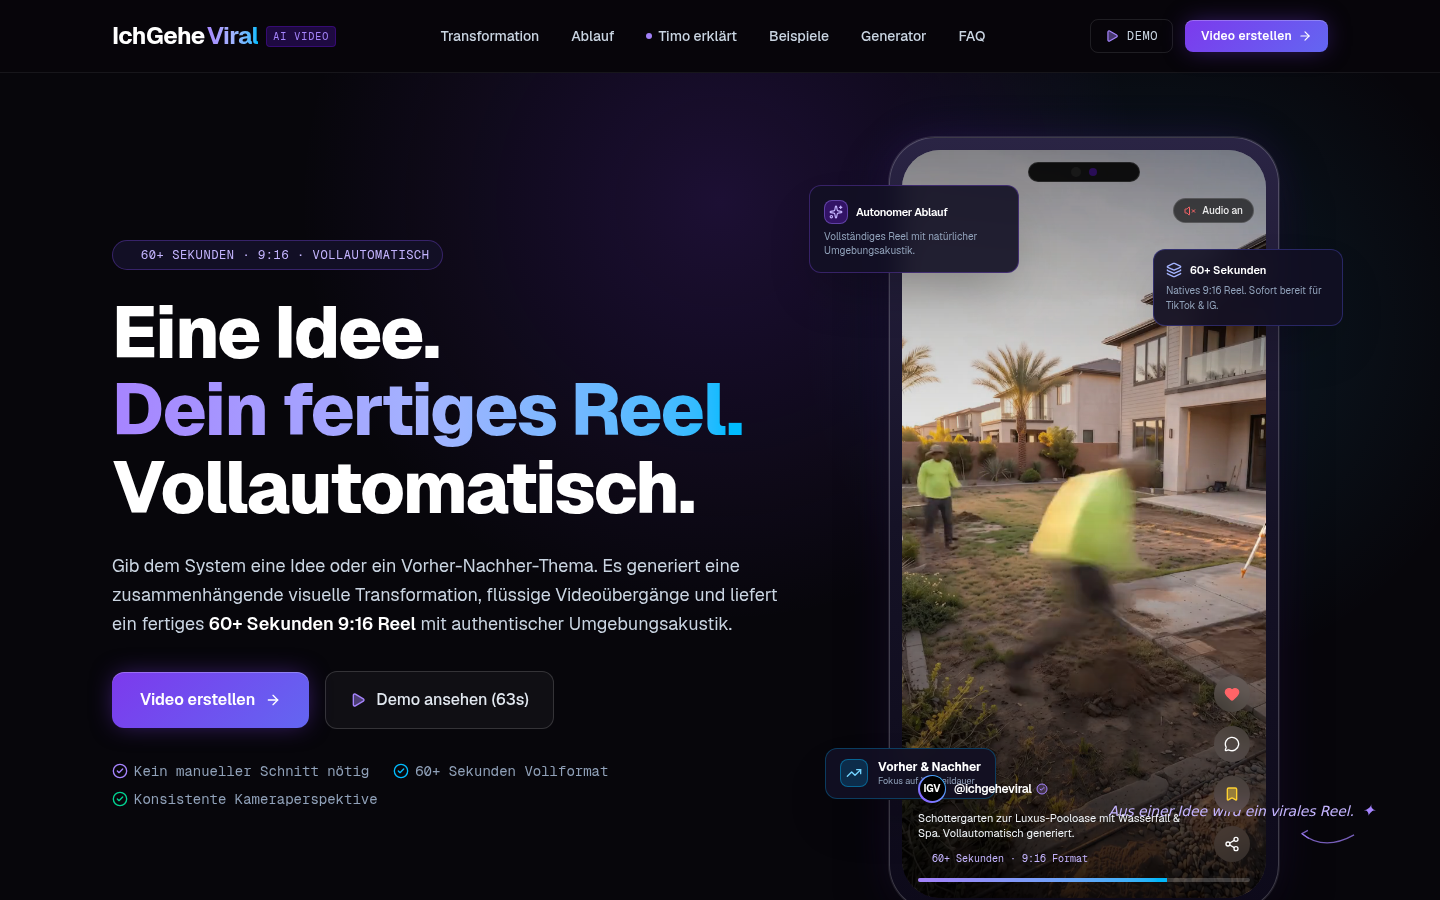
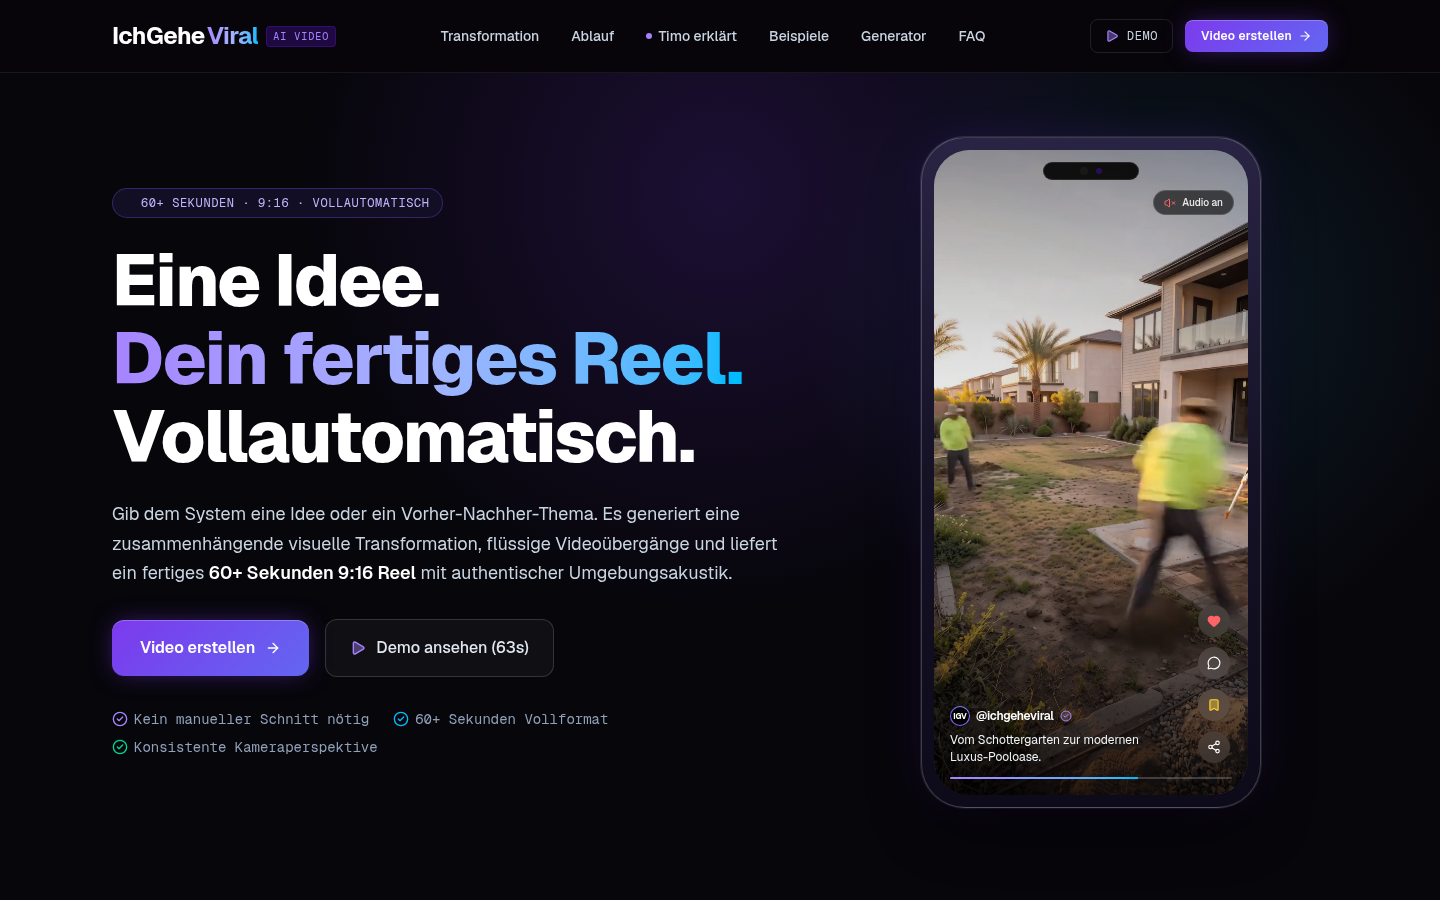
polish(hero): declutter phone mockup, remove overlapping badges, enhance layout clarity

Changed region(s): [[0.0625, 0.1867, 0.5312, 0.9022], [0.5625, 0.1556, 0.9375, 0.9956]]

diff --git a/src/components/PhoneMockup.tsx b/src/components/PhoneMockup.tsx
@@ -1,7 +1,7 @@
 "use client";
 
 import React, { useRef, useState } from "react";
-import { Heart, MessageCircle, Bookmark, Share2, Volume2, VolumeX, Sparkles, TrendingUp, Layers, CheckCircle2 } from "lucide-react";
+import { Heart, MessageCircle, Bookmark, Share2, Volume2, VolumeX, CheckCircle2 } from "lucide-react";
 
 interface PhoneMockupProps {
   onPlayFull?: () => void;
@@ -11,7 +11,8 @@ export function PhoneMockup({ onPlayFull }: PhoneMockupProps) {
   const videoRef = useRef<HTMLVideoElement>(null);
   const [isMuted, setIsMuted] = useState(true);
 
-  const toggleSound = () => {
+  const toggleSound = (e: React.MouseEvent) => {
+    e.stopPropagation();
     if (videoRef.current) {
       videoRef.current.muted = !videoRef.current.muted;
       setIsMuted(videoRef.current.muted);
@@ -19,79 +20,25 @@ export function PhoneMockup({ onPlayFull }: PhoneMockupProps) {
   };
 
   return (
-    <div className="relative mx-auto w-full max-w-[340px] sm:max-w-[360px] lg:max-w-[390px] select-none">
+    <div className="relative mx-auto w-full max-w-[290px] sm:max-w-[320px] lg:max-w-[340px] select-none">
       {/* Background ambient lighting halo behind phone */}
       <div className="absolute -inset-4 sm:-inset-6 rounded-[48px] bg-gradient-to-tr from-violet-600/30 via-indigo-500/20 to-sky-400/25 blur-3xl opacity-75 pointer-events-none -z-10" />
 
-      {/* Floating Micro-Badge Top Left */}
-      <div className="hidden sm:flex absolute -left-12 lg:-left-20 top-12 z-20 flex-col gap-1 rounded-xl bg-[#120F24]/90 p-3.5 border border-violet-500/30 shadow-2xl backdrop-blur-md max-w-[210px] animate-fade-in">
-        <div className="flex items-center gap-2">
-          <div className="w-6 h-6 rounded-lg bg-violet-600/30 border border-violet-400/40 flex items-center justify-center">
-            <Sparkles className="w-3.5 h-3.5 text-violet-300" />
-          </div>
-          <span className="text-[11px] font-semibold text-white tracking-tight">
-            Autonomer Ablauf
-          </span>
-        </div>
-        <p className="text-[10px] text-slate-400 leading-snug pt-0.5">
-          Vollständiges Reel mit natürlicher Umgebungsakustik.
-        </p>
-      </div>
-
-      {/* Floating Micro-Badge Mid Left */}
-      <div className="hidden sm:flex absolute -left-10 lg:-left-16 bottom-28 z-20 items-center gap-2.5 rounded-xl bg-[#120F24]/90 px-3.5 py-2.5 border border-sky-500/30 shadow-2xl backdrop-blur-md">
-        <div className="w-7 h-7 rounded-lg bg-sky-500/20 border border-sky-400/40 flex items-center justify-center">
-          <TrendingUp className="w-4 h-4 text-sky-300" />
-        </div>
-        <div>
-          <div className="text-xs font-bold text-white flex items-center gap-1">
-            <span>Vorher & Nachher</span>
-          </div>
-          <p className="text-[9px] text-slate-400">Fokus auf Verweildauer</p>
-        </div>
-      </div>
-
-      {/* Floating Micro-Badge Right */}
-      <div className="hidden sm:flex absolute -right-8 lg:-right-16 top-28 z-20 flex-col gap-1 rounded-xl bg-[#120F24]/90 p-3 border border-indigo-500/30 shadow-2xl backdrop-blur-md max-w-[190px]">
-        <div className="flex items-center gap-2">
-          <Layers className="w-4 h-4 text-indigo-300" />
-          <span className="text-[11px] font-semibold text-white">60+ Sekunden</span>
-        </div>
-        <p className="text-[10px] text-slate-400">
-          Natives 9:16 Reel. Sofort bereit für TikTok & IG.
-        </p>
-      </div>
-
-      {/* Editorial Handwriting Annotation */}
-      <div className="hidden lg:block absolute -right-24 bottom-14 z-20 text-right pointer-events-none">
-        <div className="flex items-center gap-2 justify-end text-violet-300 handwriting text-sm tracking-wide">
-          <span>Aus einer Idee wird ein virales Reel.</span>
-          <span className="text-base text-violet-400">✦</span>
-        </div>
-        <svg
-          className="w-16 h-8 text-violet-400/70 ml-auto mr-4 transform rotate-12"
-          viewBox="0 0 100 50"
-          fill="none"
-          stroke="currentColor"
-          strokeWidth="2"
-        >
-          <path d="M 90,10 Q 50,45 10,25" />
-          <path d="M 18,18 L 10,25 L 22,30" />
-        </svg>
-      </div>
-
       {/* Phone Chassis Container */}
-      <div className="relative rounded-[46px] p-2.5 sm:p-3 bg-gradient-to-b from-[#2a2444] via-[#151226] to-[#0d0a1a] phone-chassis border border-white/20">
+      <div className="relative rounded-[44px] p-2.5 sm:p-3 bg-gradient-to-b from-[#2a2444] via-[#151226] to-[#0d0a1a] phone-chassis border border-white/20 shadow-2xl">
         {/* Dynamic Island / Speaker Pill */}
-        <div className="absolute top-5 sm:top-6 left-1/2 -translate-x-1/2 z-30 flex items-center justify-center gap-2 w-28 h-5 rounded-full bg-black/90 border border-white/10 shadow-inner">
-          <div className="w-2.5 h-2.5 rounded-full bg-[#181818]" />
-          <div className="w-2 h-2 rounded-full bg-violet-950/80" />
+        <div className="absolute top-5 sm:top-6 left-1/2 -translate-x-1/2 z-30 flex items-center justify-center gap-2 w-24 h-4.5 rounded-full bg-black/90 border border-white/10 shadow-inner">
+          <div className="w-2 h-2 rounded-full bg-[#181818]" />
+          <div className="w-1.5 h-1.5 rounded-full bg-violet-950/80" />
         </div>
 
         {/* Phone Screen Area (9:16 Aspect Ratio) */}
         <div
           onClick={onPlayFull}
-          className="relative aspect-[9/19] sm:aspect-[9/18.5] w-full overflow-hidden rounded-[38px] bg-black cursor-pointer"
+          className="relative aspect-[9/18.5] w-full overflow-hidden rounded-[36px] bg-black cursor-pointer group"
+          role="button"
+          tabIndex={0}
+          aria-label="Reel im Vollbild abspielen"
         >
           {/* Main Video: 2 MB optimized preview loop for instant mobile loading */}
           <video
@@ -102,16 +49,17 @@ export function PhoneMockup({ onPlayFull }: PhoneMockupProps) {
             loop
             muted
             playsInline
-            className="h-full w-full object-cover"
+            className="h-full w-full object-cover group-hover:scale-[1.02] transition-transform duration-500"
           />
 
           {/* Gradient Overlay for Text Readability */}
-          <div className="absolute inset-0 bg-gradient-to-b from-black/40 via-transparent 40% to-black/85 pointer-events-none" />
+          <div className="absolute inset-0 bg-gradient-to-b from-black/35 via-transparent 45% to-black/85 pointer-events-none" />
 
           {/* Audio Unmute Pill Top Right */}
           <button
             onClick={toggleSound}
-            className="absolute top-12 right-3 z-30 flex items-center gap-1.5 rounded-full bg-black/60 px-2.5 py-1 text-[10px] font-medium text-white/90 backdrop-blur-md border border-white/15 hover:bg-black/80 transition-colors"
+            className="absolute top-10 right-3.5 z-30 flex items-center gap-1.5 rounded-full bg-black/60 px-2.5 py-1 text-[10px] font-medium text-white/90 backdrop-blur-md border border-white/15 hover:bg-black/80 transition-colors pointer-events-auto"
+            aria-label={isMuted ? "Audio einschalten" : "Audio stummschalten"}
           >
             {isMuted ? (
               <>
@@ -127,58 +75,50 @@ export function PhoneMockup({ onPlayFull }: PhoneMockupProps) {
           </button>
 
           {/* Reel Platform UI Overlay */}
-          <div className="absolute inset-x-0 bottom-0 p-3.5 sm:p-4 z-20 flex flex-col justify-end text-white">
+          <div className="absolute inset-x-0 bottom-0 p-3.5 sm:p-4 z-20 flex flex-col justify-end text-white pointer-events-none">
             <div className="flex items-end justify-between gap-3">
               {/* Creator Info & Caption */}
-              <div className="flex-1 space-y-2">
-                <div className="flex items-center gap-2">
-                  <div className="w-7 h-7 rounded-full bg-gradient-to-tr from-violet-500 to-sky-400 p-[1.5px]">
-                    <div className="w-full h-full rounded-full bg-black flex items-center justify-center text-[10px] font-bold">
+              <div className="flex-1 min-w-0 pr-2 space-y-1.5 pointer-events-auto">
+                <div className="flex items-center gap-1.5">
+                  <div className="w-5 h-5 rounded-full bg-gradient-to-tr from-violet-500 to-indigo-400 p-[1px] shrink-0">
+                    <div className="w-full h-full rounded-full bg-black flex items-center justify-center text-[8px] font-bold text-white">
                       IGV
                     </div>
                   </div>
-                  <div className="flex items-center gap-1">
-                    <span className="text-xs font-semibold tracking-tight">
-                      @ichgeheviral
-                    </span>
-                    <CheckCircle2 className="w-3 h-3 text-violet-400 fill-violet-400/20" />
-                  </div>
+                  <span className="text-xs font-semibold tracking-tight text-white truncate">
+                    @ichgeheviral
+                  </span>
+                  <CheckCircle2 className="w-3 h-3 text-violet-400 fill-violet-400/20 shrink-0" />
                 </div>
 
-                <p className="text-[11px] text-slate-100 font-normal leading-snug line-clamp-2 drop-shadow-sm">
-                  Schottergarten zur Luxus-Pooloase mit Wasserfall & Spa. 
-                  Vollautomatisch generiert.
+                <p className="text-[11px] sm:text-xs text-slate-100 font-normal leading-snug drop-shadow-sm line-clamp-2">
+                  Vom Schottergarten zur modernen Luxus-Pooloase.
                 </p>
-
-                <div className="flex items-center gap-2 pt-0.5 text-[10px] text-violet-300 font-mono">
-                  <span className="inline-block w-1.5 h-1.5 rounded-full bg-violet-400 animate-ping" />
-                  <span>60+ Sekunden · 9:16 Format</span>
-                </div>
               </div>
 
               {/* TikTok / Reels Right Action Rail (Clean without fake metric numbers) */}
-              <div className="flex flex-col items-center gap-3.5 pb-1 text-white">
-                <div className="w-9 h-9 rounded-full bg-white/10 backdrop-blur-md flex items-center justify-center hover:scale-110 transition-transform">
-                  <Heart className="w-4 h-4 text-red-400 fill-red-400" />
+              <div className="w-8 sm:w-9 flex flex-col items-center gap-2.5 pb-0.5 text-white shrink-0 pointer-events-auto">
+                <div className="w-8 h-8 rounded-full bg-white/10 backdrop-blur-md flex items-center justify-center hover:scale-110 transition-transform">
+                  <Heart className="w-3.5 h-3.5 text-red-400 fill-red-400" />
                 </div>
 
-                <div className="w-9 h-9 rounded-full bg-white/10 backdrop-blur-md flex items-center justify-center">
-                  <MessageCircle className="w-4 h-4 text-white" />
+                <div className="w-8 h-8 rounded-full bg-white/10 backdrop-blur-md flex items-center justify-center">
+                  <MessageCircle className="w-3.5 h-3.5 text-white" />
                 </div>
 
-                <div className="w-9 h-9 rounded-full bg-white/10 backdrop-blur-md flex items-center justify-center">
-                  <Bookmark className="w-4 h-4 text-amber-300 fill-amber-300/40" />
+                <div className="w-8 h-8 rounded-full bg-white/10 backdrop-blur-md flex items-center justify-center">
+                  <Bookmark className="w-3.5 h-3.5 text-amber-300 fill-amber-300/40" />
                 </div>
 
-                <div className="w-9 h-9 rounded-full bg-white/10 backdrop-blur-md flex items-center justify-center">
-                  <Share2 className="w-4 h-4 text-white" />
+                <div className="w-8 h-8 rounded-full bg-white/10 backdrop-blur-md flex items-center justify-center">
+                  <Share2 className="w-3.5 h-3.5 text-white" />
                 </div>
               </div>
             </div>
 
             {/* Video Timeline Scrubber Bar */}
-            <div className="mt-3 w-full h-1 bg-white/20 rounded-full overflow-hidden">
-              <div className="h-full bg-gradient-to-r from-violet-400 to-sky-400 w-3/4 animate-pulse" />
+            <div className="mt-3 w-full h-[2px] bg-white/20 rounded-full overflow-hidden">
+              <div className="h-full bg-gradient-to-r from-violet-400 to-sky-400 w-2/3" />
             </div>
           </div>
         </div>

diff --git a/src/components/FounderSection.tsx b/src/components/FounderSection.tsx
@@ -133,25 +133,14 @@ export function FounderSection({ onScrollToGenerator, onOpenFounderModal }: Foun
                   <div className="absolute bottom-4 left-4 z-10 hidden sm:block text-xs text-slate-300 font-medium">
                     Klicke zum Ansehen der persönlichen Vorstellung
                   </div>
+
+                  {/* Bottom Right Status Badge */}
+                  <div className="absolute bottom-4 right-4 z-10 px-2.5 py-1 rounded-md bg-black/75 backdrop-blur-md border border-white/15 text-[11px] font-mono text-violet-300 flex items-center gap-1.5">
+                    <span className="w-1.5 h-1.5 rounded-full bg-violet-400 animate-pulse" />
+                    <span>IN VORBEREITUNG</span>
+                  </div>
                 </>
               )}
-            </div>
-
-            {/* Editorial Annotation Top Right */}
-            <div className="hidden lg:block absolute -top-8 -right-6 z-20 pointer-events-none">
-              <div className="text-violet-300 handwriting text-sm tracking-wide">
-                Echte Einblicke. Kein Marketing-Blabla. Einfach erklärt. ✦
-              </div>
-              <svg
-                className="w-14 h-8 text-violet-400/70 ml-auto mr-8 transform rotate-6"
-                viewBox="0 0 100 50"
-                fill="none"
-                stroke="currentColor"
-                strokeWidth="2"
-              >
-                <path d="M 10,10 Q 50,40 90,20" />
-                <path d="M 82,14 L 90,20 L 80,26" />
-              </svg>
             </div>
           </div>
         </div>

diff --git a/src/components/Hero.tsx b/src/components/Hero.tsx
@@ -13,7 +13,7 @@ export function Hero({ onOpenVideo, onScrollToGenerator }: HeroProps) {
   return (
     <section className="relative overflow-hidden pt-8 pb-16 lg:pt-16 lg:pb-24 radial-glow-hero">
       <div className="mx-auto max-w-7xl px-4 sm:px-6 lg:px-8">
-        <div className="grid grid-cols-1 lg:grid-cols-12 gap-12 lg:gap-8 items-center">
+        <div className="grid grid-cols-1 lg:grid-cols-12 gap-12 lg:gap-10 xl:gap-14 items-center">
           {/* Left Column: Messaging & Conversion */}
           <div className="lg:col-span-7 flex flex-col items-start text-left">
             {/* Telemetry Eyebrow */}
@@ -77,7 +77,7 @@ export function Hero({ onOpenVideo, onScrollToGenerator }: HeroProps) {
           </div>
 
           {/* Right Column: Hero Visual Asset (Phone Mockup) */}
-          <div className="lg:col-span-5 flex justify-center lg:justify-end">
+          <div className="lg:col-span-5 flex justify-center">
             <PhoneMockup onPlayFull={onOpenVideo} />
           </div>
         </div>
